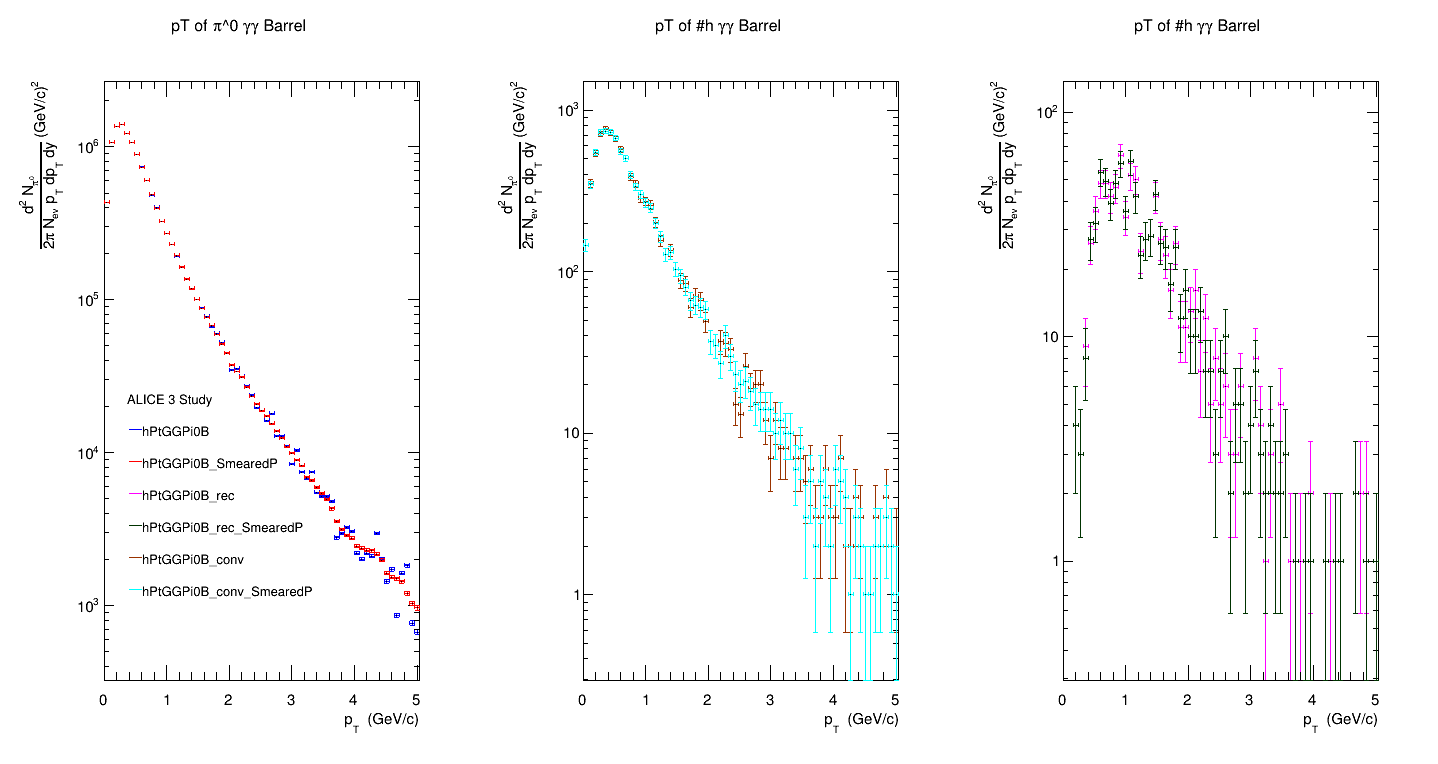
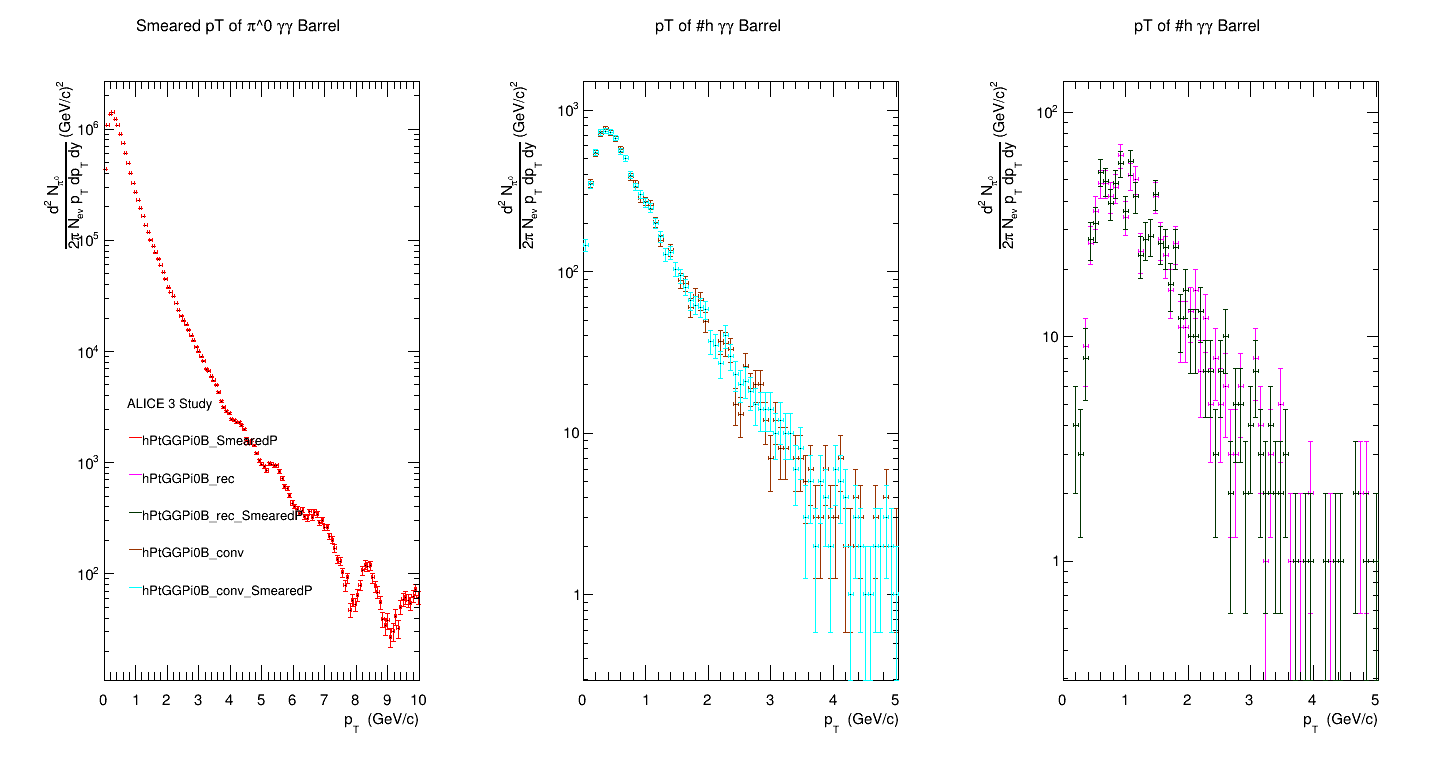
minor: BOOL condition

diff --git a/analysis_files/ana.C b/analysis_files/ana.C
@@ -1017,8 +1017,8 @@ mcTree.AddFile("/misc/alidata120/alice_u/marin/ALICE3/electron-pack/results/eve4
     //if (track.GetP()< minPFG  ) continue;    /////    MOMENTUM CUT ON PHOTONS
 	  if (track.GetPdgCode() == 22 )   gamma_prim.emplace_back(track);
 	  if (track.GetPdgCode() == 22 )   gamma_prim_B.emplace_back(track);
-	  if ( (gRandom->Uniform() < (convProb )) & (track.GetPdgCode() == 22 ) ) gamB_conv.emplace_back(track);   
-    if ( (gRandom->Uniform() < (convProb * eff)) & (track.GetPdgCode() == 22 ) ) gamB_rec_conv.emplace_back(track);
+	  if ( (gRandom->Uniform() < (convProb )) && (track.GetPdgCode() == 22 ) ) gamB_conv.emplace_back(track);   
+    if ( (gRandom->Uniform() < (convProb * eff)) && (track.GetPdgCode() == 22 ) ) gamB_rec_conv.emplace_back(track);
 
 	  //continue;
 	}
@@ -1158,7 +1158,7 @@ mcTree.AddFile("/misc/alidata120/alice_u/marin/ALICE3/electron-pack/results/eve4
 	  // add that the two gammas have the same mother
 
 	  if (gam1->getMotherTrackId() ==  gam2->getMotherTrackId()){
-      if ((mTrackMother_gam1.GetPdgCode() == 111) & (0<TMath::Abs(mTrackMother_gam1.GetRapidity())) & (TMath::Abs(mTrackMother_gam1.GetRapidity())<1.3) ){
+      if ((mTrackMother_gam1.GetPdgCode() == 111) && (0<TMath::Abs(mTrackMother_gam1.GetRapidity())) && (TMath::Abs(mTrackMother_gam1.GetRapidity())<1.3) ){
 	      hInvMassGGPi0.Fill((LVgam1+LVgam2).M());
 	      hPtGGPi0.Fill((LVgam1+LVgam2).Pt());
 	      if( gam1->GetPt()> minPtG && gam2->GetPt()> minPtG){
@@ -1166,7 +1166,7 @@ mcTree.AddFile("/misc/alidata120/alice_u/marin/ALICE3/electron-pack/results/eve4
 		hPtGGPi0Cut.Fill((LVgam1+LVgam2).Pt());
 	      }
 	    }
-      if ((mTrackMother_gam1.GetPdgCode() == 221) & (0<TMath::Abs(mTrackMother_gam1.GetRapidity())) & (TMath::Abs(mTrackMother_gam1.GetRapidity())<1.3) ){
+      if ((mTrackMother_gam1.GetPdgCode() == 221) && (0<TMath::Abs(mTrackMother_gam1.GetRapidity())) && (TMath::Abs(mTrackMother_gam1.GetRapidity())<1.3) ){
 	      hInvMassGGEta.Fill((LVgam1+LVgam2).M());
 	      hPtGGEta.Fill((LVgam1+LVgam2).Pt());
 	      if( gam1->GetPt()> minPtG && gam2->GetPt()> minPtG){
@@ -1202,7 +1202,7 @@ mcTree.AddFile("/misc/alidata120/alice_u/marin/ALICE3/electron-pack/results/eve4
       hInvMassPt_B_GG.Fill((LVgam1+LVgam2).M() ,(LVgam1+LVgam2).Pt());
       hInvMassPt_B_GG_SmearedP.Fill((LVgam1_Smear_P+LVgam2_Smear_P).M() ,(LVgam1_Smear_P+LVgam2_Smear_P).Pt());
       
-      if ((mTrackMother_gam1.GetPdgCode() == 111) & (0<TMath::Abs(mTrackMother_gam1.GetRapidity())) & (TMath::Abs(mTrackMother_gam1.GetRapidity())<1.3) ){
+      if ((mTrackMother_gam1.GetPdgCode() == 111) && (0<TMath::Abs(mTrackMother_gam1.GetRapidity())) && (TMath::Abs(mTrackMother_gam1.GetRapidity())<1.3) ){
 	      hInvMassGGPi0B.Fill((LVgam1+LVgam2).M());
         hInvMassGGPi0B_SmearedP.Fill((LVgam1_Smear_P+LVgam2_Smear_P).M());
 	      hPtGGPi0B.Fill((LVgam1+LVgam2).Pt());
@@ -1217,7 +1217,7 @@ mcTree.AddFile("/misc/alidata120/alice_u/marin/ALICE3/electron-pack/results/eve4
           hPtGGPi0BCut_SmearedP.Fill((LVgam1_Smear_P+LVgam2_Smear_P).Pt());
         }
 	    }
-      if ((mTrackMother_gam1.GetPdgCode() == 221) & (0<TMath::Abs(mTrackMother_gam1.GetRapidity())) & (TMath::Abs(mTrackMother_gam1.GetRapidity())<1.3) ){
+      if ((mTrackMother_gam1.GetPdgCode() == 221) && (0<TMath::Abs(mTrackMother_gam1.GetRapidity())) && (TMath::Abs(mTrackMother_gam1.GetRapidity())<1.3) ){
 	      hInvMassGGEtaB.Fill((LVgam1+LVgam2).M());
 	      hInvMassGGEtaB_SmearedP.Fill((LVgam1_Smear_P+LVgam2_Smear_P).M());
 	      hPtGGEtaB.Fill((LVgam1+LVgam2).Pt());
@@ -1264,7 +1264,7 @@ for (auto gam1= gamB_conv.begin(); gam1!=gamB_conv.end();++gam1   ) {
             fprintf(myfile,"SAME MOTHER: %d, %d \n", gam1->getMotherTrackId(),gam2->getMotherTrackId());
 
 	//	cout<< gam1->getMotherTrackId() <<endl;
-              if ((mTrackMother_gam1.GetPdgCode() == 111) & (0<TMath::Abs(mTrackMother_gam1.GetRapidity())) & (TMath::Abs(mTrackMother_gam1.GetRapidity())<1.3) ){
+              if ((mTrackMother_gam1.GetPdgCode() == 111) && (0<TMath::Abs(mTrackMother_gam1.GetRapidity())) && (TMath::Abs(mTrackMother_gam1.GetRapidity())<1.3) ){
 	              countPi0++;
 	              hInvMassGGPi0B_conv.Fill((LVgam1+LVgam2).M());
                 hInvMassGGPi0B_conv_SmearedP.Fill((LVgam1_Smear_P+LVgam2_Smear_P).M());
@@ -1280,7 +1280,7 @@ for (auto gam1= gamB_conv.begin(); gam1!=gamB_conv.end();++gam1   ) {
                 hPtGGPi0BCut_conv_SmearedP.Fill((LVgam1_Smear_P+LVgam2_Smear_P).Pt());
               }
             }
-              if ((mTrackMother_gam1.GetPdgCode() == 221) & (0<TMath::Abs(mTrackMother_gam1.GetRapidity())) & (TMath::Abs(mTrackMother_gam1.GetRapidity())<1.3) ){
+              if ((mTrackMother_gam1.GetPdgCode() == 221) && (0<TMath::Abs(mTrackMother_gam1.GetRapidity())) && (TMath::Abs(mTrackMother_gam1.GetRapidity())<1.3) ){
               hInvMassGGEtaB_conv.Fill((LVgam1+LVgam2).M());
        	      hPtGGEtaB_conv.Fill((LVgam1+LVgam2).Pt());
               hRapidityPt_Eta_B_GG_conv.Fill(TMath::Abs((LVgam1+LVgam2).Rapidity()) ,(LVgam1+LVgam2).Pt());
@@ -1327,7 +1327,7 @@ for (auto gam1= gamB_conv.begin(); gam1!=gamB_conv.end();++gam1   ) {
 		        hInvMassGGB_Samemother_rec_SmearedP.Fill((LVgam1_Smear_P+LVgam2_Smear_P).M());
 
 	              //	cout<< gam1->getMotherTrackId() <<endl;
-              if ((mTrackMother_gam1.GetPdgCode() == 111) & (0<TMath::Abs(mTrackMother_gam1.GetRapidity())) & (TMath::Abs(mTrackMother_gam1.GetRapidity())<1.3) ){
+              if ((mTrackMother_gam1.GetPdgCode() == 111) && (0<TMath::Abs(mTrackMother_gam1.GetRapidity())) && (TMath::Abs(mTrackMother_gam1.GetRapidity())<1.3) ){
 
 	              hInvMassGGPi0B_rec.Fill((LVgam1+LVgam2).M());
                 hInvMassGGPi0B_rec_SmearedP.Fill((LVgam1_Smear_P+LVgam2_Smear_P).M());
@@ -1343,7 +1343,7 @@ for (auto gam1= gamB_conv.begin(); gam1!=gamB_conv.end();++gam1   ) {
                 hPtGGPi0BCut_rec_SmearedP.Fill((LVgam1_Smear_P+LVgam2_Smear_P).Pt());
               }
             }
-              if ((mTrackMother_gam1.GetPdgCode() == 221) & (0<TMath::Abs(mTrackMother_gam1.GetRapidity())) & (TMath::Abs(mTrackMother_gam1.GetRapidity())<1.3) ){
+              if ((mTrackMother_gam1.GetPdgCode() == 221) && (0<TMath::Abs(mTrackMother_gam1.GetRapidity())) && (TMath::Abs(mTrackMother_gam1.GetRapidity())<1.3) ){
               hInvMassGGEtaB_rec.Fill((LVgam1+LVgam2).M());
        	      hPtGGEtaB_rec.Fill((LVgam1+LVgam2).Pt());
               hRapidityPt_Eta_B_GG_rec.Fill(TMath::Abs((LVgam1+LVgam2).Rapidity()) ,(LVgam1+LVgam2).Pt());
@@ -1444,8 +1444,8 @@ for (auto gam1= gamB_conv.begin(); gam1!=gamB_conv.end();++gam1   ) {
        hRapidityPt_Eta_F_SmearedP.Fill(TMath::Abs(track.GetRapidity()) ,track.GetPt());}
     if (track.GetP()< minPFG  ) continue;    /////    MOMENTUM CUT ON PHOTONS
 	  if (track.GetPdgCode() == 22 )   gamma_prim_F.emplace_back(track);
-	  if ( (gRandom->Uniform() < (convProb )) & (track.GetPdgCode() == 22 ) ) gamF_conv.emplace_back(track);   
-    if ( (gRandom->Uniform() < (convProb * eff)) & (track.GetPdgCode() == 22 ) ) gamF_rec_conv.emplace_back(track);
+	  if ( (gRandom->Uniform() < (convProb )) && (track.GetPdgCode() == 22 ) ) gamF_conv.emplace_back(track);   
+    if ( (gRandom->Uniform() < (convProb * eff)) && (track.GetPdgCode() == 22 ) ) gamF_rec_conv.emplace_back(track);
     
 	}
 	// Conversions in forward
@@ -1526,7 +1526,7 @@ for (auto gam1= gamB_conv.begin(); gam1!=gamB_conv.end();++gam1   ) {
       hInvMassPt_F_GG.Fill((LVgam1+LVgam2).M() ,(LVgam1+LVgam2).Pt());
       hInvMassPt_F_GG_SmearedP.Fill((LVgam1_Smear_P+LVgam2_Smear_P).M() ,(LVgam1_Smear_P+LVgam2_Smear_P).Pt());
 
-  	  if ((mTrackMother_gam1.GetPdgCode() == 111) & (1.7<TMath::Abs(mTrackMother_gam1.GetRapidity())) & (TMath::Abs(mTrackMother_gam1.GetRapidity()))<4.0) {
+  	  if ((mTrackMother_gam1.GetPdgCode() == 111) && (1.7<TMath::Abs(mTrackMother_gam1.GetRapidity())) && (TMath::Abs(mTrackMother_gam1.GetRapidity()))<4.0) {
 	      hInvMassGGPi0F.Fill((LVgam1+LVgam2).M());
         hInvMassGGPi0F_SmearedP.Fill((LVgam1_Smear_P+LVgam2_Smear_P).M());
 	      hPtGGPi0F.Fill((LVgam1+LVgam2).Pt());
@@ -1541,7 +1541,7 @@ for (auto gam1= gamB_conv.begin(); gam1!=gamB_conv.end();++gam1   ) {
           hPtGGPi0FCut_SmearedP.Fill((LVgam1_Smear_P+LVgam2_Smear_P).Pt());
         }
 	    }
-	      if ((mTrackMother_gam1.GetPdgCode() == 221) & (1.7<TMath::Abs(mTrackMother_gam1.GetRapidity())) & (TMath::Abs(mTrackMother_gam1.GetRapidity()))<4.0) {
+	      if ((mTrackMother_gam1.GetPdgCode() == 221) && (1.7<TMath::Abs(mTrackMother_gam1.GetRapidity())) && (TMath::Abs(mTrackMother_gam1.GetRapidity()))<4.0) {
 	      hInvMassGGEtaF.Fill((LVgam1+LVgam2).M());
 	      hInvMassGGEtaF_SmearedP.Fill((LVgam1_Smear_P+LVgam2_Smear_P).M());
 	      hPtGGEtaF.Fill((LVgam1+LVgam2).Pt());
@@ -1620,7 +1620,7 @@ for (auto gam1= gamF_conv.begin(); gam1!=gamF_conv.end();++gam1   ) {
             fprintf(myfile,"SAME MOTHER: %d, %d \n", gam1->getMotherTrackId(),gam2->getMotherTrackId());
 
 	//	cout<< gam1->getMotherTrackId() <<endl;
-              if ((mTrackMother_gam1.GetPdgCode() == 111) & (1.7<TMath::Abs(mTrackMother_gam1.GetRapidity())) & (TMath::Abs(mTrackMother_gam1.GetRapidity()))<4.0) {
+              if ((mTrackMother_gam1.GetPdgCode() == 111) && (1.7<TMath::Abs(mTrackMother_gam1.GetRapidity())) && (TMath::Abs(mTrackMother_gam1.GetRapidity()))<4.0) {
 	              countPi0++;
 	              hInvMassGGPi0F_conv.Fill((LVgam1+LVgam2).M());
                 hInvMassGGPi0F_conv_SmearedP.Fill((LVgam1_Smear_P+LVgam2_Smear_P).M());
@@ -1636,7 +1636,7 @@ for (auto gam1= gamF_conv.begin(); gam1!=gamF_conv.end();++gam1   ) {
                 hPtGGPi0FCut_conv_SmearedP.Fill((LVgam1_Smear_P+LVgam2_Smear_P).Pt());
               }
             }
-              if ((mTrackMother_gam1.GetPdgCode() == 221) & (1.7<TMath::Abs(mTrackMother_gam1.GetRapidity())) & (TMath::Abs(mTrackMother_gam1.GetRapidity()))<4.0) {
+              if ((mTrackMother_gam1.GetPdgCode() == 221) && (1.7<TMath::Abs(mTrackMother_gam1.GetRapidity())) && (TMath::Abs(mTrackMother_gam1.GetRapidity()))<4.0) {
               hInvMassGGEtaF_conv.Fill((LVgam1+LVgam2).M());
        	      hPtGGEtaF_conv.Fill((LVgam1+LVgam2).Pt());
               hRapidityPt_Eta_F_GG_conv.Fill(TMath::Abs((LVgam1+LVgam2).Rapidity()) ,(LVgam1+LVgam2).Pt());
@@ -1685,7 +1685,7 @@ for (auto gam1= gamF_conv.begin(); gam1!=gamF_conv.end();++gam1   ) {
             fprintf(myfile,"SAME MOTHER: %d, %d \n", gam1->getMotherTrackId(),gam2->getMotherTrackId());
 
 	              //	cout<< gam1->getMotherTrackId() <<endl;
-              if ((mTrackMother_gam1.GetPdgCode() == 111) & (1.7<TMath::Abs(mTrackMother_gam1.GetRapidity())) & (TMath::Abs(mTrackMother_gam1.GetRapidity())<4.0)) {
+              if ((mTrackMother_gam1.GetPdgCode() == 111) && (1.7<TMath::Abs(mTrackMother_gam1.GetRapidity())) && (TMath::Abs(mTrackMother_gam1.GetRapidity())<4.0)) {
 	              countPi0++;
 	              hInvMassGGPi0F_rec.Fill((LVgam1+LVgam2).M());
                 hInvMassGGPi0F_rec_SmearedP.Fill((LVgam1_Smear_P+LVgam2_Smear_P).M());
@@ -1701,7 +1701,7 @@ for (auto gam1= gamF_conv.begin(); gam1!=gamF_conv.end();++gam1   ) {
                 hPtGGPi0FCut_rec_SmearedP.Fill((LVgam1_Smear_P+LVgam2_Smear_P).Pt());
               }
             }
-              if ((mTrackMother_gam1.GetPdgCode() == 221) & (1.7<TMath::Abs(mTrackMother_gam1.GetRapidity())) & (TMath::Abs(mTrackMother_gam1.GetRapidity())<4.0)) {
+              if ((mTrackMother_gam1.GetPdgCode() == 221) && (1.7<TMath::Abs(mTrackMother_gam1.GetRapidity())) && (TMath::Abs(mTrackMother_gam1.GetRapidity())<4.0)) {
               hInvMassGGEtaF_rec.Fill((LVgam1+LVgam2).M());
        	      hPtGGEtaF_rec.Fill((LVgam1+LVgam2).Pt());
               hRapidityPt_Eta_F_GG_rec.Fill(TMath::Abs((LVgam1+LVgam2).Rapidity()) ,(LVgam1+LVgam2).Pt());

diff --git a/plots/histogramplots.C b/plots/histogramplots.C
@@ -1506,7 +1506,7 @@ c104.cd(1)->SetLogy();
 c104.cd(1)-> SetLeftMargin(0.2);
 hPtGGPi0B->GetYaxis()->SetTitleOffset(2.5);   
 hPtGGPi0B->GetXaxis()->SetRangeUser(0,5.0);
-hPtGGPi0B->Draw("E1");
+//hPtGGPi0B->Draw("E1");
 hPtGGPi0B->SetLineColor(kBlue);  
 hPtGGPi0B_SmearedP->Draw("SAME,E1");
 hPtGGPi0B_SmearedP->SetLineColor(kRed);
@@ -1538,7 +1538,7 @@ l104->SetHeader("ALICE 3 Study");
 l104->SetBorderSize(0);
 l104->SetFillStyle(0);
 l104->SetTextSize(0.03);
-l104->AddEntry(hPtGGPi0B,"hPtGGPi0B","l");
+//l104->AddEntry(hPtGGPi0B,"hPtGGPi0B","l");
 l104->AddEntry(hPtGGPi0B_SmearedP,"hPtGGPi0B_SmearedP","l");
 l104->AddEntry(hPtGGPi0B_rec,"hPtGGPi0B_rec","l");
 l104->AddEntry(hPtGGPi0B_rec_SmearedP,"hPtGGPi0B_rec_SmearedP","l");
@@ -2134,7 +2134,7 @@ c116.cd(1);
 //c116.cd(1)->SetLogy();
 
 SetStyleHistoTH1ForGraphs(hInvMassGGPi0B, "M_{#gamma#gamma} (GeV/c)^2)", "N_{ev}", TextSize_lable, TextSize_title, TextSize_lable,TextSize_title);
-DrawGammaSetMarker(hInvMassGGPi0B , 0, 0, kBlack, kBlack);
+//DrawGammaSetMarker(hInvMassGGPi0B , 0, 0, kBlack, kBlack);
 DrawGammaSetMarker(hInvMassGGPi0B_SmearedP,20,0.8, kRed+2 , kRed+2);
 
 
@@ -2178,7 +2178,7 @@ c116.cd(2);
 
 
 SetStyleHistoTH1ForGraphs(hInvMassGGEtaB, "M_{#gamma#gamma} (GeV/c)^2)", "N_{ev}", TextSize_lable, TextSize_title, TextSize_lable,TextSize_title);
-DrawGammaSetMarker(hInvMassGGEtaB , 0, 0, kBlack, kBlack);
+//DrawGammaSetMarker(hInvMassGGEtaB , 0, 0, kBlack, kBlack);
 DrawGammaSetMarker(hInvMassGGEtaB_SmearedP,20,0.8, kRed+2 , kRed+2);
 
 
@@ -2190,7 +2190,7 @@ gs116_Eta->SetLineWidth(1);
 
 
 hInvMassGGEtaB->GetXaxis()->SetRangeUser(0.48,0.65); 
-hInvMassGGEtaB->Draw();
+//hInvMassGGEtaB->Draw();
 hInvMassGGEtaB_SmearedP->Draw("E1,SAME");
 gs116_Eta->Draw("SAME");
 
@@ -2200,7 +2200,7 @@ l116_Eta->SetHeader("");
 l116_Eta->SetBorderSize(0);
 l116_Eta->SetFillStyle(0);
 l116_Eta->SetTextSize(TextSize);
-l116_Eta->AddEntry(hInvMassGGEtaB,"Invariant Mass Histogram: #pi^0","l");
+//l116_Eta->AddEntry(hInvMassGGEtaB,"Invariant Mass Histogram: #pi^0","l");
 l116_Eta->AddEntry(hInvMassGGEtaB_SmearedP,"#splitline{Invariant Mass Histogram}{: With Smeared Momentum}","p");
 l116_Eta->AddEntry(gs116_Eta,"Gaussian Fit","l");
 l116_Eta->Draw("SAME");
